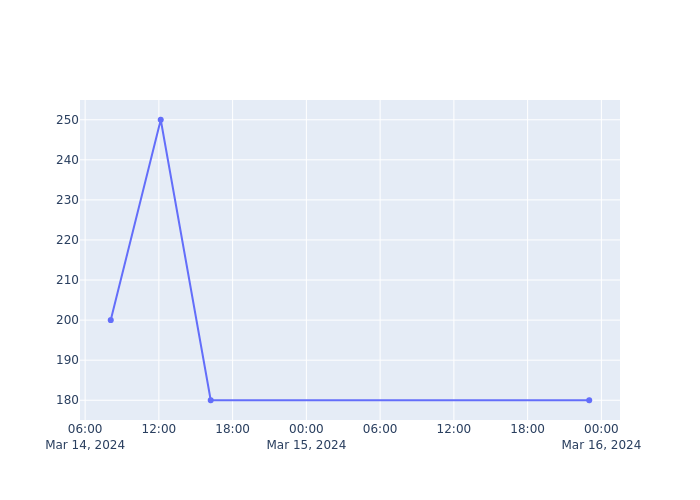
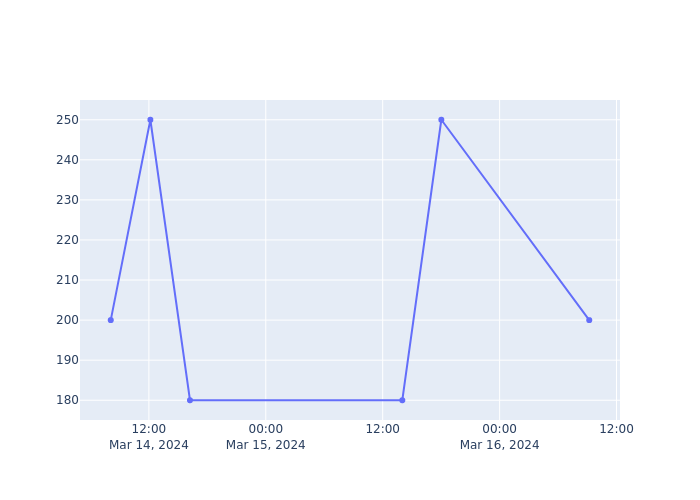
Add popup in diagram for send quantity to bib in db

diff --git a/client/diagrams/diagrams.py b/client/diagrams/diagrams.py
@@ -16,6 +16,10 @@ from PIL import Image as PILImage
 import plotly.graph_objects as go
 from kivy.uix.image import Image
 from client.login.Login import AppState
+from kivy.uix.popup import Popup
+from kivy.uix.button import Button
+from kivy.uix.textinput import TextInput
+from kivy.metrics import dp
 
 Window.size = (430, 932)
 
@@ -30,8 +34,9 @@ class Diagrams(Screen):
         # Create the Plotly widget
         self.plotly_widget = PlotlyWidget()
         self.layout.add_widget(self.plotly_widget)
-
         self.add_widget(self.layout)
+
+        self.popup = None
 
         # Call the method to update the plot
         self.on_enter()
@@ -64,6 +69,42 @@ class Diagrams(Screen):
             x_values.append(date_biberon)
             y_values.append(float(entry['quantity']))
         return x_values, y_values
+
+    def enter_data_bib(self):
+        content = BoxLayout(orientation='vertical')
+        quantity_input = TextInput(hint_text='Quantité en ml', multiline=True)
+        add_button = Button(text='Ajouter', size_hint_y=None, height=dp(50))
+        add_button.bind(on_release=lambda btn: self.add_quantity(quantity_input.text))
+        content.add_widget(quantity_input)
+        content.add_widget(add_button)
+
+        self.popup = Popup(title='Ajouter un biberon', content=content, size_hint=(None, None), size=(300, 200))
+        self.popup.open()
+
+    def add_quantity(self, quantity):
+        try:
+            quantity = float(quantity)
+            if quantity <= 0:
+                print("Veuillez entrer une quantité positive.")
+                return
+
+            data = {
+                "id_baby": AppState.baby_id,
+                "quantity": quantity,
+                "date_biberon": datetime.now().strftime('%Y-%m-%dT%H:%M:%SZ')
+            }
+
+            response = requests.post('http://127.0.0.1:8000/biberon/', headers=AppState.header, data=data)
+            if response.status_code == 201 or response.status_code == 200:
+                print("Biberon ajouté avec succès!")
+                self.update_graph()
+            else:
+                print("Erreur lors de l'ajout du biberon:", response.status_code)
+            if self.popup:
+                self.popup.dismiss()
+                self.popup = None
+        except ValueError:
+            print("Veuillez entrer une quantité valide.")
 
 
 class PlotlyWidget(BoxLayout):
